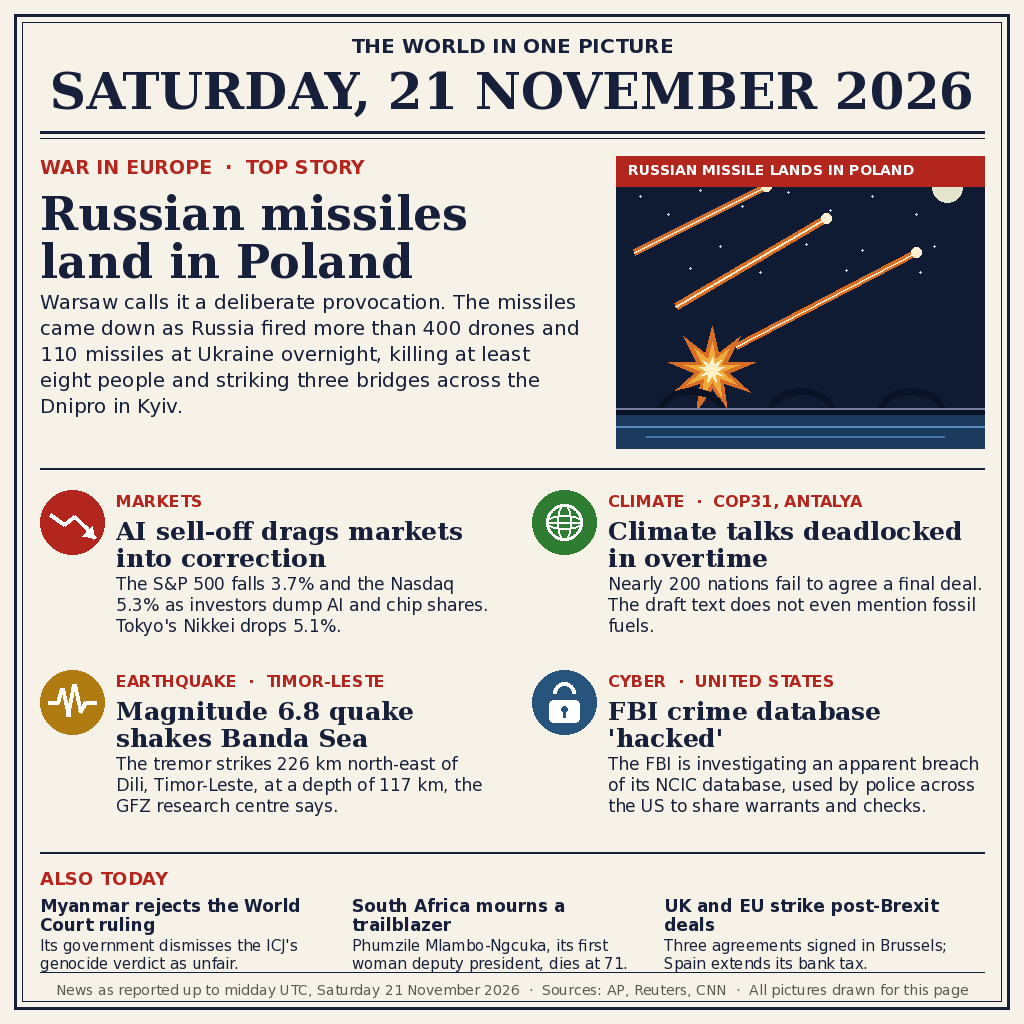
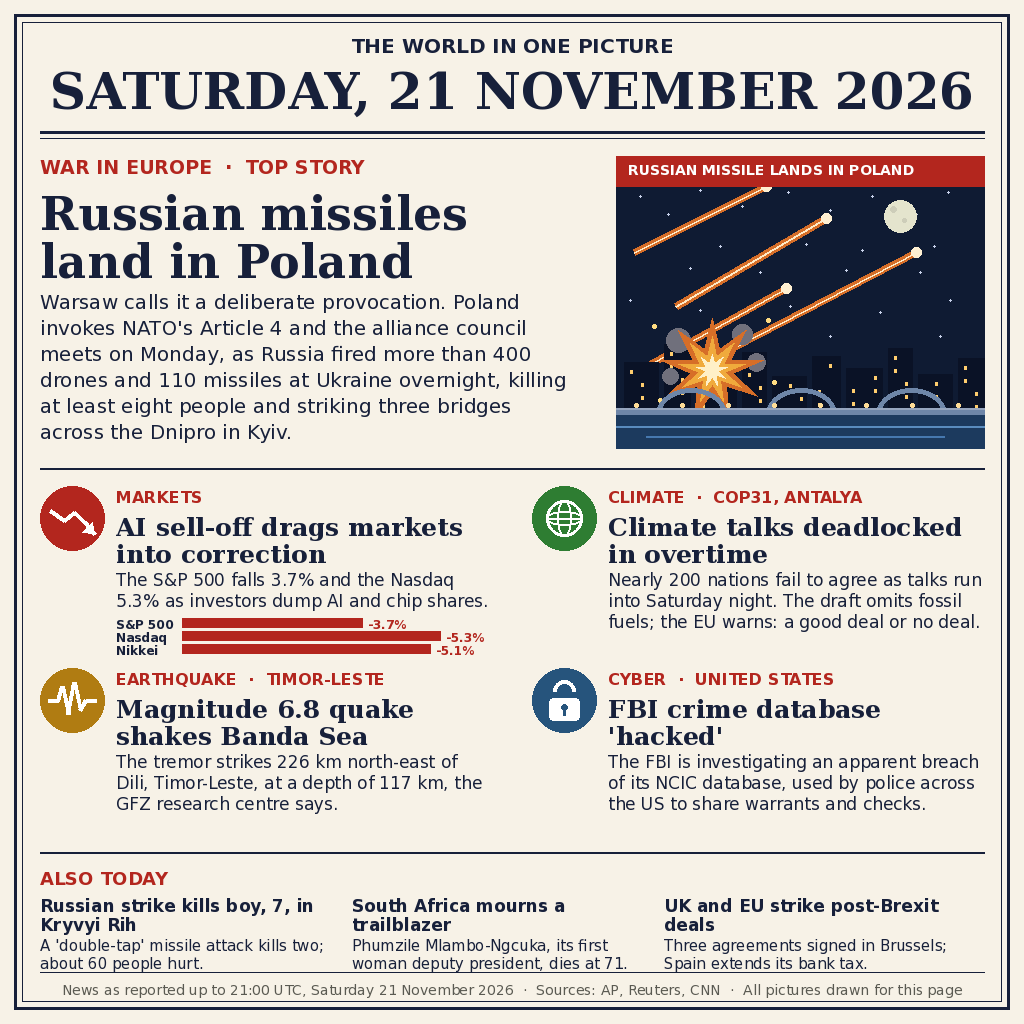
Rank push round 3: richer hero art, markets bar chart, late-day news (Article 4, Kryvyi Rih, COP31 Saturday)

diff --git a/main.py b/main.py
@@ -114,7 +114,18 @@ STARS = [
     (640, 196), (668, 214), (700, 190), (742, 206), (788, 192), (830, 210),
     (872, 196), (916, 214), (948, 192), (656, 240), (720, 246), (806, 244),
     (862, 250), (934, 246), (690, 268), (760, 272), (846, 270), (920, 272),
+    (630, 300), (700, 310), (790, 306), (880, 312), (950, 300), (676, 330),
+    (830, 336), (940, 336),
 ]
+
+# City skyline silhouettes for the hero panel: (x offset, width, height).
+SKYLINE = [
+    (8, 34, 52), (48, 26, 70), (80, 40, 44), (126, 24, 62), (156, 34, 38),
+    (196, 28, 58), (230, 36, 46), (272, 24, 66), (302, 34, 40), (342, 26, 56),
+]
+
+STEEL_LIGHT = (110, 134, 168)  # bridge steel, readable against the night sky
+SMOKE = (112, 112, 124)
 
 
 def draw_hero_panel(draw, x0, y0, x1, y1):
@@ -123,34 +134,56 @@ def draw_hero_panel(draw, x0, y0, x1, y1):
     # stars
     for sx, sy in STARS:
         draw.ellipse([sx - 1, sy - 1, sx + 1, sy + 1], fill=(200, 210, 235))
-    # pale moon
-    draw.ellipse([x1 - 52, y0 + 16, x1 - 22, y0 + 46], fill=(228, 228, 205))
+    # pale moon, fully below the caption bar so it reads as a whole disc
+    draw.ellipse([x1 - 100, y0 + 44, x1 - 68, y0 + 76], fill=(228, 228, 205))
+    draw.ellipse([x1 - 94, y0 + 50, x1 - 88, y0 + 56], fill=(205, 205, 185))
+    draw.ellipse([x1 - 82, y0 + 62, x1 - 78, y0 + 66], fill=(205, 205, 185))
     # missile streaks: orange glow, white core, bright head
     streaks = [
         ((x0 + 18, y0 + 96), (x0 + 150, y0 + 30)),
         ((x0 + 60, y0 + 150), (x0 + 210, y0 + 62)),
         ((x0 + 120, y0 + 190), (x0 + 300, y0 + 96)),
+        ((x0 + 30, y0 + 210), (x0 + 170, y0 + 132)),
     ]
     for (ax, ay), (bx, by) in streaks:
         draw.line([(ax, ay), (bx, by)], fill=(214, 110, 40), width=7)
         draw.line([(ax, ay), (bx, by)], fill=(255, 235, 200), width=2)
         draw.ellipse([bx - 5, by - 5, bx + 5, by + 5], fill=(255, 240, 210))
-    # explosion burst over the bridge
+    # city skyline on the far bank, a few windows lit
+    base_y = y1 - 34
+    for bx0, bw, bh in SKYLINE:
+        draw.rectangle([x0 + bx0, base_y - bh, x0 + bx0 + bw, base_y],
+                       fill=NIGHT_DEEP)
+        for wx in range(x0 + bx0 + 6, x0 + bx0 + bw - 4, 11):
+            for wy in range(base_y - bh + 8, base_y - 8, 13):
+                if (wx * 7 + wy * 3) % 5 < 2:
+                    draw.rectangle([wx, wy, wx + 2, wy + 3],
+                                   fill=(255, 205, 110))
+    # explosion burst over the bridge, with smoke puffs and sparks
     bx, by = x0 + 96, y1 - 78
-    starburst(draw, bx, by, 44, 18, 9, (214, 110, 40))
-    starburst(draw, bx, by, 28, 11, 9, (240, 170, 60))
-    starburst(draw, bx, by, 13, 6, 9, (255, 240, 200))
+    for sx, sy, sr in ((bx - 34, by - 30, 12), (bx + 30, by - 36, 10),
+                       (bx + 44, by - 8, 9), (bx - 42, by + 6, 8)):
+        draw.ellipse([sx - sr, sy - sr, sx + sr, sy + sr], fill=SMOKE)
+    starburst(draw, bx, by, 52, 22, 9, (214, 110, 40))
+    starburst(draw, bx, by, 34, 14, 9, (240, 170, 60))
+    starburst(draw, bx, by, 16, 7, 9, (255, 240, 200))
+    for sx, sy in ((bx - 58, by - 44), (bx + 56, by - 50), (bx + 62, by + 12),
+                   (bx - 52, by + 30)):
+        draw.ellipse([sx - 2, sy - 2, sx + 2, sy + 2], fill=(255, 220, 130))
     # river band
     draw.rectangle([x0, y1 - 34, x1, y1], fill=RIVER)
     draw.line([(x0, y1 - 22), (x1, y1 - 22)], fill=(90, 140, 190), width=2)
     draw.line([(x0 + 30, y1 - 12), (x1 - 40, y1 - 12)], fill=(70, 120, 175), width=2)
-    # bridge silhouette: deck + three arches
+    # bridge silhouette: deck + three arches, in lighter steel so it reads
     deck_y = y1 - 34
-    draw.rectangle([x0, deck_y - 6, x1, deck_y], fill=NIGHT_DEEP)
+    draw.rectangle([x0, deck_y - 6, x1, deck_y], fill=STEEL_LIGHT)
     for i, ax in enumerate((x0 + 40, x0 + 150, x0 + 260)):
         draw.arc([ax, deck_y - 26, ax + 70, deck_y + 26],
-                 start=180, end=360, fill=NIGHT_DEEP, width=7)
-    draw.line([(x0, deck_y - 6), (x1, deck_y - 6)], fill=(120, 130, 160), width=2)
+                 start=180, end=360, fill=STEEL_LIGHT, width=5)
+    for lx in range(x0 + 20, x1 - 10, 46):
+        draw.ellipse([lx - 2, deck_y - 11, lx + 2, deck_y - 7],
+                     fill=(255, 220, 150))
+    draw.line([(x0, deck_y - 6), (x1, deck_y - 6)], fill=(150, 165, 190), width=2)
     # caption
     draw.rectangle([x0, y0, x1, y0 + 30], fill=(179, 38, 30))
     draw.text((x0 + 12, y0 + 6), "RUSSIAN MISSILE LANDS IN POLAND",
@@ -195,14 +228,29 @@ def draw_icon_cyber(draw, cx, cy):
     draw.rectangle([cx - 1, cy + 9, cx + 1, cy + 15], fill=STEEL)
 
 
-def story_cell(draw, x, y, w, kicker, headline, body, icon_fn):
+def draw_bars(draw, x, y, w, data):
+    """Compact horizontal bar chart for index falls: (label, percent)."""
+    f_lab = font(SANS_B, 12)
+    scale = (w - 118) / max(abs(v) for _, v in data)
+    for i, (label, value) in enumerate(data):
+        ry = y + i * 13
+        draw.text((x, ry - 1), label, font=f_lab, fill=INK)
+        bw = max(6, int(abs(value) * scale))
+        draw.rectangle([x + 66, ry, x + 66 + bw, ry + 9], fill=RED)
+        draw.text((x + 72 + bw, ry - 1), f"{value:.1f}%",
+                  font=f_lab, fill=RED)
+
+
+def story_cell(draw, x, y, w, kicker, headline, body, icon_fn, chart=None):
     icon_fn(draw, x + 32, y + 32)
     tx = x + 76
     tw = w - 76
     draw.text((tx, y + 2), kicker, font=font(SANS_B, 16), fill=RED)
     y2 = draw_wrapped(draw, tx, y + 26, headline, font(SERIF_B, 25), tw,
                       INK, spacing=2)
-    draw_wrapped(draw, tx, y2 + 4, body, font(SANS, 17), tw, INK, spacing=4)
+    y3 = draw_wrapped(draw, tx, y2 + 4, body, font(SANS, 17), tw, INK, spacing=4)
+    if chart:
+        draw_bars(draw, tx, y3 + 6, tw, chart)
 
 
 def main():
@@ -242,10 +290,11 @@ def main():
                      font(SERIF_B, 46), hw, INK, spacing=2)
     draw_wrapped(
         draw, hx, y + 8,
-        "Warsaw calls it a deliberate provocation. The missiles came down "
-        "as Russia fired more than 400 drones and 110 missiles at Ukraine "
-        "overnight, killing at least eight people and striking three "
-        "bridges across the Dnipro in Kyiv.",
+        "Warsaw calls it a deliberate provocation. Poland invokes NATO's "
+        "Article 4 and the alliance council meets on Monday, as Russia "
+        "fired more than 400 drones and 110 missiles at Ukraine overnight, "
+        "killing at least eight people and striking three bridges across "
+        "the Dnipro in Kyiv.",
         font(SANS, 20), hw, INK, spacing=6)
     draw_hero_panel(draw, 616, 156, W - MARGIN, 448)
 
@@ -255,35 +304,41 @@ def main():
     stories = [
         ("MARKETS", "AI sell-off drags markets into correction",
          "The S&P 500 falls 3.7% and the Nasdaq 5.3% as investors dump AI "
-         "and chip shares. Tokyo's Nikkei drops 5.1%.",
-         draw_icon_markets),
+         "and chip shares.",
+         draw_icon_markets,
+         [("S&P 500", -3.7), ("Nasdaq", -5.3), ("Nikkei", -5.1)]),
         ("CLIMATE  ·  COP31, ANTALYA", "Climate talks deadlocked in overtime",
-         "Nearly 200 nations fail to agree a final deal. The draft text "
-         "does not even mention fossil fuels.",
-         draw_icon_climate),
+         "Nearly 200 nations fail to agree as talks run into Saturday "
+         "night. The draft omits fossil fuels; the EU warns: a good deal "
+         "or no deal.",
+         draw_icon_climate,
+         None),
         ("EARTHQUAKE  ·  TIMOR-LESTE", "Magnitude 6.8 quake shakes Banda Sea",
          "The tremor strikes 226 km north-east of Dili, Timor-Leste, at a "
          "depth of 117 km, the GFZ research centre says.",
-         draw_icon_quake),
+         draw_icon_quake,
+         None),
         ("CYBER  ·  UNITED STATES", "FBI crime database 'hacked'",
          "The FBI is investigating an apparent breach of its NCIC database, "
          "used by police across the US to share warrants and checks.",
-         draw_icon_cyber),
+         draw_icon_cyber,
+         None),
     ]
-    cell_w, cell_h = 452, 158
-    gx, gy = MARGIN, 490
-    for i, (kicker, headline, body, icon_fn) in enumerate(stories):
+    cell_w, cell_h = 452, 166
+    gx, gy = MARGIN, 486
+    for i, (kicker, headline, body, icon_fn, chart) in enumerate(stories):
         cx = gx + (i % 2) * (cell_w + 40)
-        cy = gy + (i // 2) * (cell_h + 22)
-        story_cell(draw, cx, cy, cell_w, kicker, headline, body, icon_fn)
+        cy = gy + (i // 2) * (cell_h + 16)
+        story_cell(draw, cx, cy, cell_w, kicker, headline, body, icon_fn,
+                   chart)
 
     hline(draw, MARGIN, W - MARGIN, 852, width=2)
 
     # --- also today ---------------------------------------------------------
     draw.text((MARGIN, 868), "ALSO TODAY", font=font(SANS_B, 18), fill=RED)
     also = [
-        ("Myanmar rejects the World Court ruling",
-         "Its government dismisses the ICJ's genocide verdict as unfair."),
+        ("Russian strike kills boy, 7, in Kryvyi Rih",
+         "A 'double-tap' missile attack kills two; about 60 people hurt."),
         ("South Africa mourns a trailblazer",
          "Phumzile Mlambo-Ngcuka, its first woman deputy president, dies at 71."),
         ("UK and EU strike post-Brexit deals",
@@ -300,7 +355,7 @@ def main():
     # --- footer -------------------------------------------------------------
     hline(draw, MARGIN, W - MARGIN, 972, width=1)
     f_foot = font(SANS, 14)
-    foot = ("News as reported up to midday UTC, Saturday 21 November 2026  ·  "
+    foot = ("News as reported up to 21:00 UTC, Saturday 21 November 2026  ·  "
             "Sources: AP, Reuters, CNN  ·  All pictures drawn for this page")
     draw.text(((W - draw.textlength(foot, font=f_foot)) / 2, 982), foot,
               font=f_foot, fill=MUTED)

diff --git a/NOTES.md b/NOTES.md
@@ -99,6 +99,42 @@ No story is invented; every fact above comes from the sources named.
[1 lines of base64/hex data omitted]
   (141,581 bytes, PNG 1024x1024), same as the shipped entry.png.
 
+## Round 3 — 22 Nov 2026 (rank push; resubmit before 23 Nov 07:00 WIB)
+- Round 2 scored judge ~0.977 (11W-1D-0L) but provisional rank #1.185
+  of 9.446 — top 50 paid needs ~98.8%. Lusi chose to push this entry
+  (with GTA 6) to raise the rank.
+- Visual/content weaknesses found by reading the round-2 render:
+  (1) hero panel: the moon was sliced by the caption bar, the bridge
+  was nearly invisible (dark on dark), no skyline; (2) no data
+  visualisation anywhere; (3) news only covered up to midday UTC.
+- Changes in main.py (fallback behaviour unchanged):
+  - Hero panel rebuilt: moon moved below the caption bar (whole disc,
+    with craters), a lit-window city skyline on the far bank, bridge in
+    lighter steel with deck lamps, bigger explosion with smoke puffs
+    and sparks, a fourth missile streak, more stars.
+  - Markets cell gains a mini horizontal bar chart (S&P 500 -3.7%,
+    Nasdaq -5.3%, Nikkei -5.1%) under a shortened body.
+  - Top story now covers the Saturday developments: Poland invokes
+    NATO Article 4, alliance council meets Monday (AP/Reuters/The
+    Times, 21 Nov); two Kh-101 missiles + one jet drone at Nowy
+    Lipowiec, Rudnik nad Sanem, Molodycz.
+  - Climate body updated: talks run into Saturday night, draft omits
+    fossil fuels, EU's Hoekstra warns "a good deal or no deal"
+    (Reuters, 21 Nov 14:36 UTC). No deal had been reached by Saturday
+    evening, so the headline stays "deadlocked in overtime".
+  - ALSO TODAY: UK-EU deals swapped out for the Kryvyi Rih
+    'double-tap' strike (boy of 7 and a young paramedic killed, ~60
+    hurt — Kyiv Independent / The Independent, 21 Nov).
+  - Footer now reads "up to 21:00 UTC" (was midday UTC).
+  - Layout: story cells 158 -> 166 px tall, rows tightened so the
+    chart fits; no text clipped or overlapping (verified visually).
+- No new font glyphs needed: every new character (&, ', digits) was
+  already in the subset fonts (see subset_fonts.py CHARS).
+- Verified: two runs byte-identical, sha256
[1 lines of base64/hex data omitted]
+  (153,040 bytes, PNG 1024x1024). Shipped entry.png replaced with the
+  new render so the no-Pillow fallback serves the new image too.
+
 ## Git
 `git config user.name` / `user.email` are not set on this machine, so
 no local commit was made (no identity invented).
